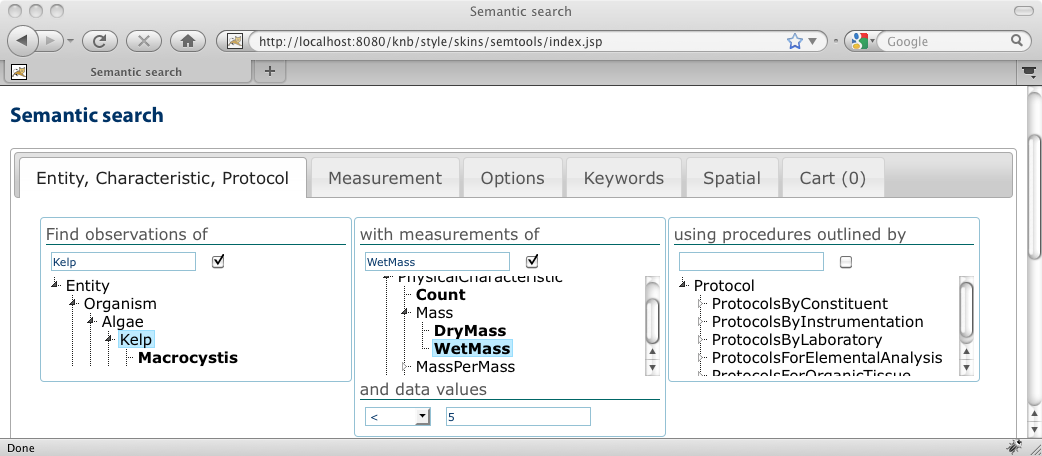
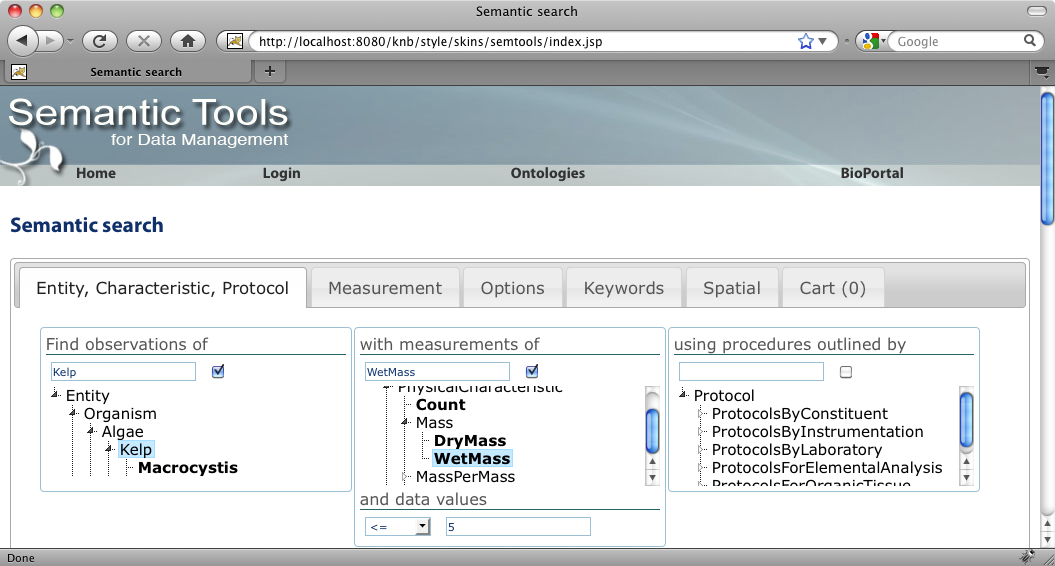
figures for: integration, metacat query, morpho annotation

diff --git a/docs/pubs/EIM-2011/application.tex b/docs/pubs/EIM-2011/application.tex
@@ -7,11 +7,25 @@ By leveraging the relationships defined and/or inferred from the ontology we are
 Using compound semantic query criteria applies a fine-grained filter on the datasets that are returned. Results may include only those datasets that include measurements for a set of specific Characteristics of a particular Entity. Furthermore, a query can specify that those measurements come from precisely the \emph{same instance of that Entity} as belaboured by the authors of the OBOE specification (Schildhauer here somewhere??).
 
 \subsection{Data query}
-For even more precise recall, the OBOE model can be partially \emph{materialized} during the query stage after which a data range filter can be applied. Different techniques are available for merging the Annotation with the data that it describes, but for performance reasons a hybrid approach has been adopted in which premliminary search results from a concept-based query are collated and only that subset is materialized. The Data Manager Library is conveniently used to load raw data objects because our corpus is described using EML and the Annotation syntax - both of which inform the correct use of the Data Manager query features. For any data attributes that match the concept query criteria, we then verify that those attributes contain data values within the range specifed by the initial semantic data query. Figure XX illustrates a semantic data query in which datasets recording organismal mass is greater than 0.5 grams are returned.
+For even more precise recall, the OBOE model can be partially \emph{materialized} during the query stage after which a data range filter can be applied. Different techniques are available for merging the Annotation with the data that it describes, but for performance reasons a hybrid approach has been adopted in which premliminary search results from a concept-based query are collated and only that subset is materialized. The Data Manager Library is conveniently used to load raw data objects because our corpus is described using EML and the Annotation syntax - both of which inform the correct use of the Data Manager query features. For any data attributes that match the concept query criteria, we then verify that those attributes contain data values within the range specifed by the initial semantic data query (\figref{fig:metacat-query}).
 
 \subsection{Data integration}
 The materialization routine used for semantic data queries laid the groundwork for our ongoing data integration pursuits.
-In addition to inspecting the data for values within a range and returning the packages that contain a match, the "smart" data integration feature goes further by constructing a synthetic data product that represents the complete results of the query both in terms of the attributes and the values that are returned. Each original data package match may have wildly different syntactic structures (e.g. column number, naming, order) but could share a subset of attributes that are asserted as semantically compatible. These compatible, in-common attributes then become the facets and metrics in the synthetic dataset with their values filtered accordingly. While preliminary results have been quite promising - albeit academic - continued development of algorithms for determining compatibility of annotated measurements (e.g. gram and ounce are both mass units) and for mutating measurement values using ontologically-defined conversions (e.g. 1000 milligrams in a gram) will enable more thorough data integration.
+In addition to inspecting the data for values within a range and returning the packages that contain a match, the "smart" data integration feature goes further by constructing a synthetic data product that represents the complete results of the query both in terms of the attributes and the values that are returned. Each original data package match may have wildly different syntactic structures (e.g. column number, naming, order) but could share a subset of attributes that are asserted as semantically compatible. These compatible, in-common attributes then become the facets and metrics in the synthetic dataset with their values filtered accordingly (\figref{fig:integration}). While preliminary results have been quite promising - albeit academic - continued development of algorithms for determining compatibility of annotated measurements (e.g. gram and ounce are both mass units) and for mutating measurement values using ontologically-defined conversions (e.g. 1000 milligrams in a gram) will enable more thorough data integration.
+
+\begin{figure}
+\centering
+\includegraphics[width=0.5\textwidth]{images/metacat-query.png}
+\caption{Semantic data query web interface. Data packages containing observations of Kelp Wet Mass less than or equal to 5 [grams] are returned. Additional search options and compund query criteria can be specified within the other tabs. Matches can be saved in the data cart for later exploration.}
+\label{fig:metacat-query}
+\end{figure}
+
+\begin{figure}
+\centering
+\includegraphics[width=0.5\textwidth]{images/integration.png}
+\caption{Data integration query across multiple data packages (A, B).  Annotations (C, D) are used to determine semantically equivalent data attributes contained in the data objects (E, F). Attributes 'plot' and 'site' are considered equivalent measurements of the characteristic 'Location'; attributes 'weight' and 'wt' both map to the same characteristic 'Mass'. The Semantic Mediation API utilizes the Data Manager Library to load and query the source data informed by semantic similarities between the structurally disparate data attributes.}
+\label{fig:integration}
+\end{figure}
 
 %%% Local Variables: 
 %%% mode: latex

diff --git a/docs/pubs/EIM-2011/framework.tex b/docs/pubs/EIM-2011/framework.tex
@@ -10,7 +10,14 @@ The SMS API includes ontology management features, annotation manipulation capab
 Annotations are ultimately managed and stored in an opaque local relational database chosen for scalible persistence and query performance; the overhead of in-memory Annotation queries having proven to be prohibitively limiting for large sets of data.
 
 \subsection{Morpho editor plugin}
-The semantic editor plugin for Morpho provides a front-end to the SMS API and allows metadata editors to build up semantic Annotations for existing data package descriptions. The editor focuses on a simplictic fill-in-the-blank style interface with reusable, searchable, hierachical concept selection widgets. The optional plugin seamlessly integrates with a standard Morpho installation augmenting the existing features to provide semantic query capabilities for locating data packages, marking up data packages with semantic Annotations, and saving Annotations locally or to a shared repository where they can be discovered and explored by a broader audience.
+The semantic editor plugin for Morpho provides a front-end to the SMS API and allows metadata editors to build up semantic Annotations for existing data package descriptions. The editor focuses on a simplictic fill-in-the-blank style interface with reusable, searchable, hierachical concept selection widgets (\figref{fig:morpho-annotation}). The optional plugin seamlessly integrates with a standard Morpho installation augmenting the existing features to provide semantic query capabilities for locating data packages, marking up data packages with semantic Annotations, and saving Annotations locally or to a shared repository where they can be discovered and explored by a broader audience.
+
+\begin{figure}
+\centering
+\includegraphics[width=0.5\textwidth]{images/morpho-annotation.png}
+\caption{Morpho metadata editor with Semantic plugin. Fill-in-the-blank style editing interface to encourage natural language descriptions. A searchable hierarchical browser is used to select concepts from an ontology.}
+\label{fig:morpho-annotation}
+\end{figure}
 
 \subsection{Metacat query extensions}
 The semantic plugin for Metacat augements existing metadata storage and search by allowing Annotations to be saved and queried alongside the metadata and data that they annotate. In addition to traditional keyword and spatial search criteria, the Metacat plugin allows semantic criteria to be included where they may either increase query recall using term-expansion (i.e. traversing the class subsumption hierarchy) or refine the resultset by limiting matches to datasets that contain the specified observational model (e.g. combinations of OBOE-compatible Entity, Characteristic, or Protocol concepts). The observational model can be leveraged further by materializing the Annotation and data artifact (via the Data Manager Library) into a full OBOE model and inspecting the observational values themselves. 
